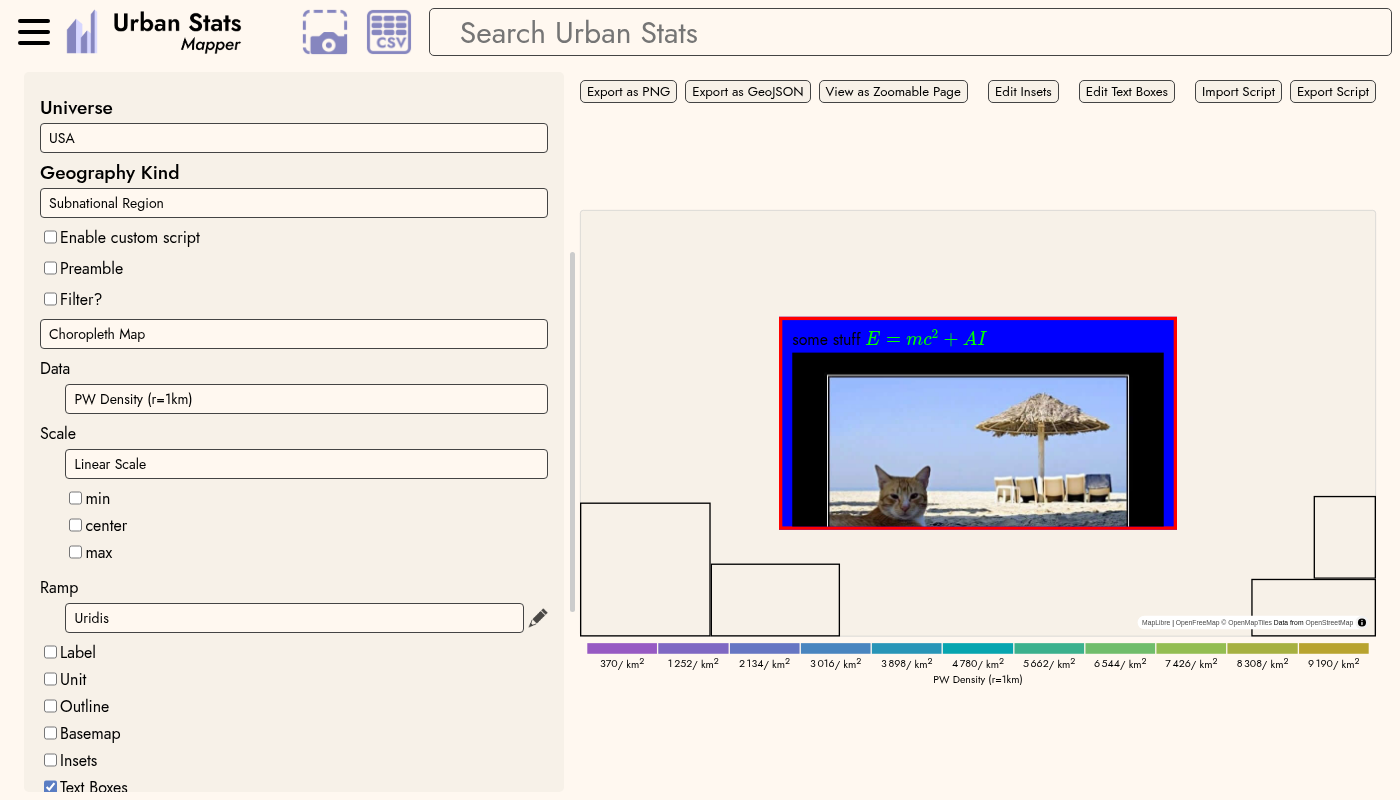
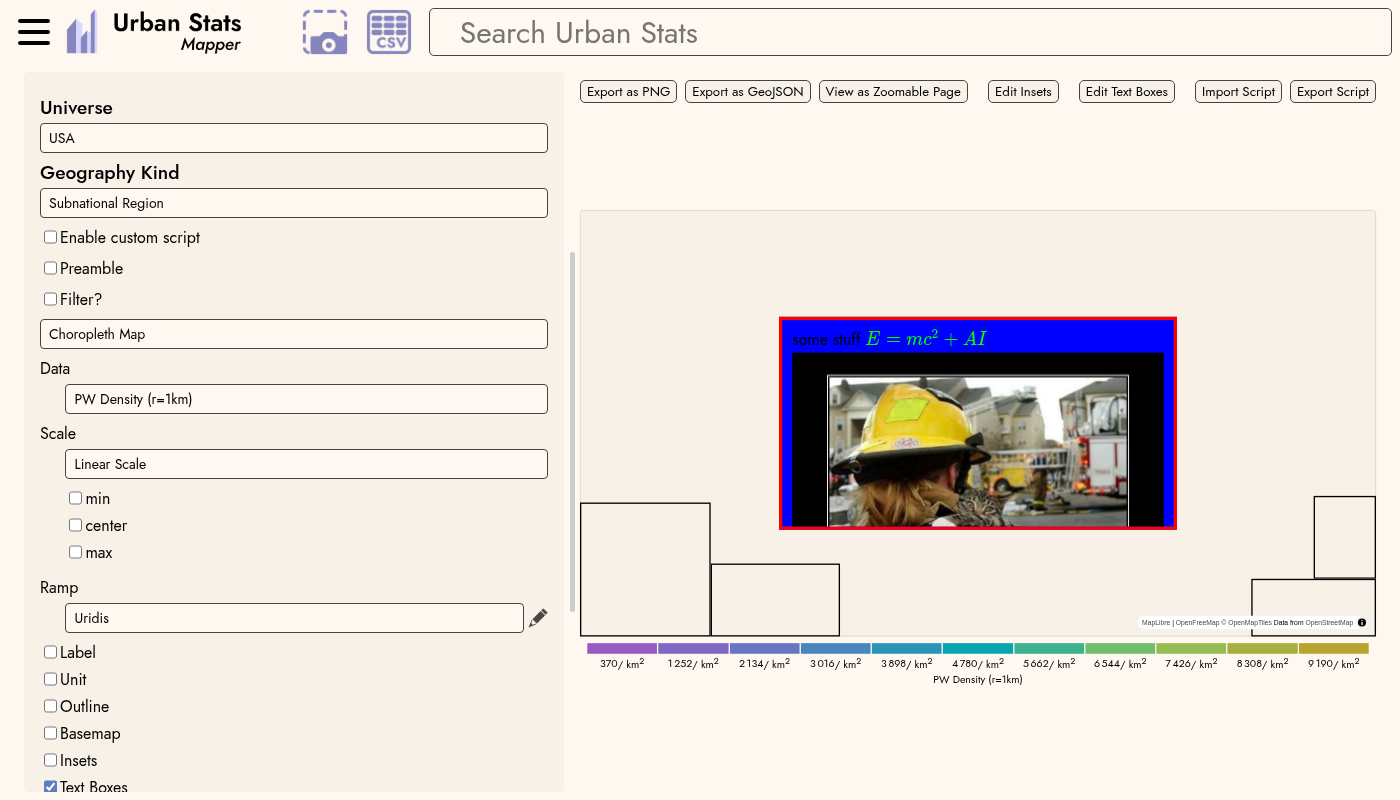
TEST PR (#1608)

Changed region(s): [[0.5836, 0.4688, 0.8293, 0.6562]]

diff --git a/react/test/scripts/list-e2e-tests.ts b/react/test/scripts/list-e2e-tests.ts
@@ -27,7 +27,7 @@ const options = argumentParser({
 }).parse(process.argv.slice(2))
 
 // All the tests that might run
-const tests = globSync('test/**/*.test.ts').map(testFile => /([^/]+)\.test\.ts$/.exec(testFile)![1])
+const tests = globSync('test/**/mapper-edit-text-boxes.test.ts').map(testFile => /([^/]+)\.test\.ts$/.exec(testFile)![1])
 
 // Durations might be empty (running on a fork), so we should handle that and assume it's empty
 const testDurations = z.record(z.number()).parse(JSON.parse(options.testDurations === '' ? '{}' : options.testDurations))

diff --git a/react/test/mapper-edit-text-boxes.test.ts b/react/test/mapper-edit-text-boxes.test.ts
@@ -120,7 +120,7 @@ test('change background color, border color, border width, insert images, insert
     await t.click('button[icon="formula"]')
 
     // Insert an image
-    await t.setNativeDialogHandler(() => 'https://http.cat/images/301.jpg')
+    await t.setNativeDialogHandler(() => 'https://http.cat/images/302.jpg')
     await t.click('button[icon="image"]')
 
     // Change border width
